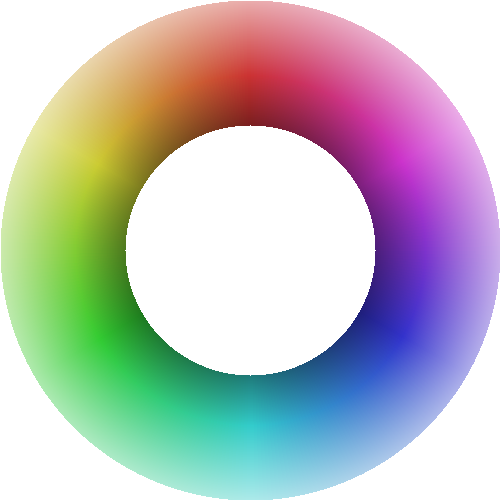
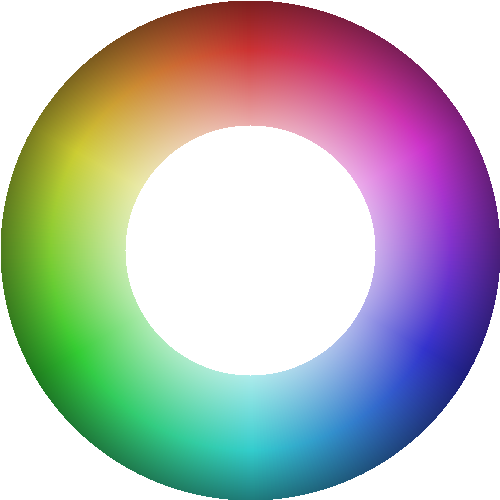
reversed the luminance of the colorwheel

diff --git a/tools/colorwheel/colorwheel.html b/tools/colorwheel/colorwheel.html
@@ -34,7 +34,7 @@
 							var s = 60;
 
 							// Luminance.
-							var l = minLum + (d-minRadius)/(maxRadius-minRadius)*(maxLum-minLum);
+							var l = minLum + (maxRadius-d)/(maxRadius-minRadius)*(maxLum-minLum);
 
 							ctxt.fillStyle = 'hsl('+h+','+s+'%,'+l+'%)';
 							ctxt.fillRect(j, i, 1, 1);
